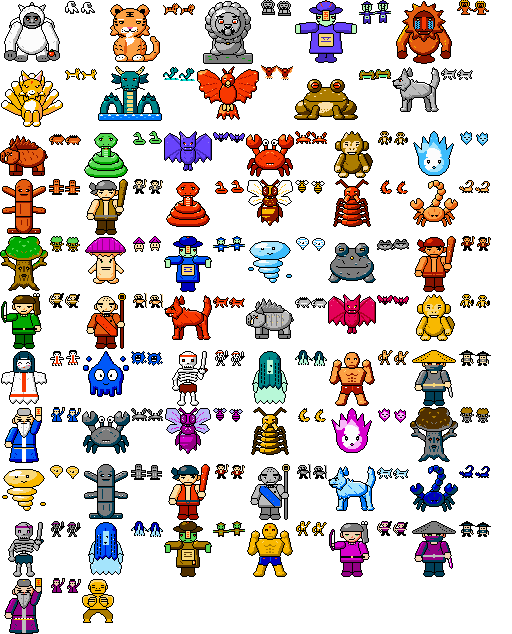
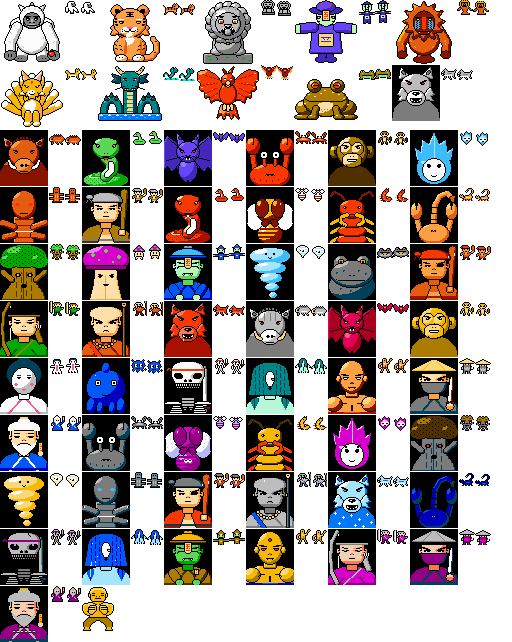
Foes as Hegemon style busts in battle, new thumb

diff --git a/js/enemy_art.js b/js/enemy_art.js
@@ -10,57 +10,57 @@ export const ENEMY_ART = {
   bx_jiao: { x: 98, y: 65, w: 64, h: 56, f: [163, 65, 16, 16] },
   bx_crow: { x: 196, y: 65, w: 64, h: 56, f: [261, 65, 16, 16] },
   bx_toad: { x: 294, y: 65, w: 64, h: 56, f: [359, 65, 16, 16] },
-  e_greywolf: { x: 392, y: 65, w: 48, h: 48, f: [441, 65, 16, 16] },
-  e_wildboar: { x: 0, y: 130, w: 48, h: 48, f: [49, 130, 16, 16] },
-  e_bambooviper: { x: 82, y: 130, w: 48, h: 48, f: [131, 130, 16, 16] },
-  e_cavebat: { x: 164, y: 130, w: 48, h: 48, f: [213, 130, 16, 16] },
-  e_rivercrab: { x: 246, y: 130, w: 48, h: 48, f: [295, 130, 16, 16] },
-  e_mountainmonkey: { x: 328, y: 130, w: 48, h: 48, f: [377, 130, 16, 16] },
-  e_wisp: { x: 410, y: 130, w: 48, h: 48, f: [459, 130, 16, 16] },
-  e_dummy: { x: 0, y: 179, w: 48, h: 56, f: [49, 179, 16, 16] },
-  e_lackey: { x: 82, y: 179, w: 48, h: 56, f: [131, 179, 16, 16] },
-  e_redsnake: { x: 164, y: 179, w: 48, h: 48, f: [213, 179, 16, 16] },
-  e_tigerhornet: { x: 246, y: 179, w: 48, h: 48, f: [295, 179, 16, 16] },
-  e_centipede: { x: 328, y: 179, w: 48, h: 48, f: [377, 179, 16, 16] },
-  e_sandscorpion: { x: 410, y: 179, w: 48, h: 48, f: [459, 179, 16, 16] },
-  e_treesprite: { x: 0, y: 236, w: 48, h: 56, f: [49, 236, 16, 16] },
-  e_toadstool: { x: 82, y: 236, w: 48, h: 48, f: [131, 236, 16, 16] },
-  e_littlejiangshi: { x: 164, y: 236, w: 48, h: 56, f: [213, 236, 16, 16] },
-  e_windsprite: { x: 246, y: 236, w: 48, h: 48, f: [295, 236, 16, 16] },
-  e_stonetoad: { x: 328, y: 236, w: 48, h: 48, f: [377, 236, 16, 16] },
-  e_cudgeler: { x: 410, y: 236, w: 48, h: 56, f: [459, 236, 16, 16] },
-  e_archer: { x: 0, y: 293, w: 48, h: 56, f: [49, 293, 16, 16] },
-  e_roguemonk: { x: 82, y: 293, w: 48, h: 56, f: [131, 293, 16, 16] },
-  e_bloodwolf: { x: 164, y: 293, w: 48, h: 48, f: [213, 293, 16, 16] },
-  e_ironboar: { x: 246, y: 293, w: 48, h: 48, f: [295, 293, 16, 16] },
-  e_bloodbat: { x: 328, y: 293, w: 48, h: 48, f: [377, 293, 16, 16] },
-  e_goldmonkey: { x: 410, y: 293, w: 48, h: 48, f: [459, 293, 16, 16] },
-  e_papereffigy: { x: 0, y: 350, w: 48, h: 56, f: [49, 350, 16, 16] },
-  e_inkspirit: { x: 82, y: 350, w: 48, h: 48, f: [131, 350, 16, 16] },
-  e_skeleton: { x: 164, y: 350, w: 48, h: 56, f: [213, 350, 16, 16] },
-  e_drowned: { x: 246, y: 350, w: 48, h: 56, f: [295, 350, 16, 16] },
-  e_bronzeman: { x: 328, y: 350, w: 48, h: 56, f: [377, 350, 16, 16] },
-  e_assassin: { x: 410, y: 350, w: 48, h: 56, f: [459, 350, 16, 16] },
-  e_daoist: { x: 0, y: 407, w: 48, h: 56, f: [49, 407, 16, 16] },
-  e_ironcrab: { x: 82, y: 407, w: 48, h: 48, f: [131, 407, 16, 16] },
-  e_ghosthornet: { x: 164, y: 407, w: 48, h: 48, f: [213, 407, 16, 16] },
-  e_goldcentipede: { x: 246, y: 407, w: 48, h: 48, f: [295, 407, 16, 16] },
-  e_netherflame: { x: 328, y: 407, w: 48, h: 48, f: [377, 407, 16, 16] },
-  e_deadwood: { x: 410, y: 407, w: 48, h: 56, f: [459, 407, 16, 16] },
-  e_thundersprite: { x: 0, y: 464, w: 48, h: 48, f: [49, 464, 16, 16] },
-  e_irondummy: { x: 82, y: 464, w: 48, h: 56, f: [131, 464, 16, 16] },
-  e_bloodthug: { x: 164, y: 464, w: 48, h: 56, f: [213, 464, 16, 16] },
-  e_ironmonk: { x: 246, y: 464, w: 48, h: 56, f: [295, 464, 16, 16] },
-  e_frostwolf: { x: 328, y: 464, w: 48, h: 48, f: [377, 464, 16, 16] },
-  e_inkscorpion: { x: 410, y: 464, w: 48, h: 48, f: [459, 464, 16, 16] },
-  e_blackbone: { x: 0, y: 521, w: 48, h: 56, f: [49, 521, 16, 16] },
-  e_coldpool: { x: 82, y: 521, w: 48, h: 56, f: [131, 521, 16, 16] },
-  e_bronzejiangshi: { x: 164, y: 521, w: 48, h: 56, f: [213, 521, 16, 16] },
-  e_vajraguardian: { x: 246, y: 521, w: 48, h: 56, f: [295, 521, 16, 16] },
-  e_netherarcher: { x: 328, y: 521, w: 48, h: 56, f: [377, 521, 16, 16] },
-  e_netherassassin: { x: 410, y: 521, w: 48, h: 56, f: [459, 521, 16, 16] },
-  e_blackdaoist: { x: 0, y: 578, w: 48, h: 56, f: [49, 578, 16, 16] },
-  b_luohan: { x: 82, y: 578, w: 32, h: 48 },
+  e_greywolf: { x: 392, y: 65, w: 48, h: 56, f: [441, 65, 16, 16] },
+  e_wildboar: { x: 0, y: 130, w: 48, h: 56, f: [49, 130, 16, 16] },
+  e_bambooviper: { x: 82, y: 130, w: 48, h: 56, f: [131, 130, 16, 16] },
+  e_cavebat: { x: 164, y: 130, w: 48, h: 56, f: [213, 130, 16, 16] },
+  e_rivercrab: { x: 246, y: 130, w: 48, h: 56, f: [295, 130, 16, 16] },
+  e_mountainmonkey: { x: 328, y: 130, w: 48, h: 56, f: [377, 130, 16, 16] },
+  e_wisp: { x: 410, y: 130, w: 48, h: 56, f: [459, 130, 16, 16] },
+  e_dummy: { x: 0, y: 187, w: 48, h: 56, f: [49, 187, 16, 16] },
+  e_lackey: { x: 82, y: 187, w: 48, h: 56, f: [131, 187, 16, 16] },
+  e_redsnake: { x: 164, y: 187, w: 48, h: 56, f: [213, 187, 16, 16] },
+  e_tigerhornet: { x: 246, y: 187, w: 48, h: 56, f: [295, 187, 16, 16] },
+  e_centipede: { x: 328, y: 187, w: 48, h: 56, f: [377, 187, 16, 16] },
+  e_sandscorpion: { x: 410, y: 187, w: 48, h: 56, f: [459, 187, 16, 16] },
+  e_treesprite: { x: 0, y: 244, w: 48, h: 56, f: [49, 244, 16, 16] },
+  e_toadstool: { x: 82, y: 244, w: 48, h: 56, f: [131, 244, 16, 16] },
+  e_littlejiangshi: { x: 164, y: 244, w: 48, h: 56, f: [213, 244, 16, 16] },
+  e_windsprite: { x: 246, y: 244, w: 48, h: 56, f: [295, 244, 16, 16] },
+  e_stonetoad: { x: 328, y: 244, w: 48, h: 56, f: [377, 244, 16, 16] },
+  e_cudgeler: { x: 410, y: 244, w: 48, h: 56, f: [459, 244, 16, 16] },
+  e_archer: { x: 0, y: 301, w: 48, h: 56, f: [49, 301, 16, 16] },
+  e_roguemonk: { x: 82, y: 301, w: 48, h: 56, f: [131, 301, 16, 16] },
+  e_bloodwolf: { x: 164, y: 301, w: 48, h: 56, f: [213, 301, 16, 16] },
+  e_ironboar: { x: 246, y: 301, w: 48, h: 56, f: [295, 301, 16, 16] },
+  e_bloodbat: { x: 328, y: 301, w: 48, h: 56, f: [377, 301, 16, 16] },
+  e_goldmonkey: { x: 410, y: 301, w: 48, h: 56, f: [459, 301, 16, 16] },
+  e_papereffigy: { x: 0, y: 358, w: 48, h: 56, f: [49, 358, 16, 16] },
+  e_inkspirit: { x: 82, y: 358, w: 48, h: 56, f: [131, 358, 16, 16] },
+  e_skeleton: { x: 164, y: 358, w: 48, h: 56, f: [213, 358, 16, 16] },
+  e_drowned: { x: 246, y: 358, w: 48, h: 56, f: [295, 358, 16, 16] },
+  e_bronzeman: { x: 328, y: 358, w: 48, h: 56, f: [377, 358, 16, 16] },
+  e_assassin: { x: 410, y: 358, w: 48, h: 56, f: [459, 358, 16, 16] },
+  e_daoist: { x: 0, y: 415, w: 48, h: 56, f: [49, 415, 16, 16] },
+  e_ironcrab: { x: 82, y: 415, w: 48, h: 56, f: [131, 415, 16, 16] },
+  e_ghosthornet: { x: 164, y: 415, w: 48, h: 56, f: [213, 415, 16, 16] },
+  e_goldcentipede: { x: 246, y: 415, w: 48, h: 56, f: [295, 415, 16, 16] },
+  e_netherflame: { x: 328, y: 415, w: 48, h: 56, f: [377, 415, 16, 16] },
+  e_deadwood: { x: 410, y: 415, w: 48, h: 56, f: [459, 415, 16, 16] },
+  e_thundersprite: { x: 0, y: 472, w: 48, h: 56, f: [49, 472, 16, 16] },
+  e_irondummy: { x: 82, y: 472, w: 48, h: 56, f: [131, 472, 16, 16] },
+  e_bloodthug: { x: 164, y: 472, w: 48, h: 56, f: [213, 472, 16, 16] },
+  e_ironmonk: { x: 246, y: 472, w: 48, h: 56, f: [295, 472, 16, 16] },
+  e_frostwolf: { x: 328, y: 472, w: 48, h: 56, f: [377, 472, 16, 16] },
+  e_inkscorpion: { x: 410, y: 472, w: 48, h: 56, f: [459, 472, 16, 16] },
+  e_blackbone: { x: 0, y: 529, w: 48, h: 56, f: [49, 529, 16, 16] },
+  e_coldpool: { x: 82, y: 529, w: 48, h: 56, f: [131, 529, 16, 16] },
+  e_bronzejiangshi: { x: 164, y: 529, w: 48, h: 56, f: [213, 529, 16, 16] },
+  e_vajraguardian: { x: 246, y: 529, w: 48, h: 56, f: [295, 529, 16, 16] },
+  e_netherarcher: { x: 328, y: 529, w: 48, h: 56, f: [377, 529, 16, 16] },
+  e_netherassassin: { x: 410, y: 529, w: 48, h: 56, f: [459, 529, 16, 16] },
+  e_blackdaoist: { x: 0, y: 586, w: 48, h: 56, f: [49, 586, 16, 16] },
+  b_luohan: { x: 82, y: 586, w: 32, h: 48 },
 };
 // names, bios and habitats from C:\CharacterGallery\chars\index.json (shown in the bestiary)
 export const ENEMY_INFO = {

diff --git a/js/main.js b/js/main.js
@@ -1,12 +1,12 @@
 // Boot: build the view, the title screen, the opening, and run the fixed-timestep loop.
-import { View, pickQuality, loadImage, registerSheet } from './view.js?v=6';
-import { Input } from './input.js?v=6';
-import { UI, t, STR, getLang, setLang } from './ui.js?v=6';
-import { Audio } from './audio.js?v=6';
-import { Game, mapName } from './game.js?v=6';
-import { CAST, PEOPLE_IMAGE } from './people_art.js?v=6';
-import { preloadBattleArt } from './battle.js?v=6';
-import { PLACE_AT } from './world_map.js?v=6';
+import { View, pickQuality, loadImage, registerSheet } from './view.js?v=7';
+import { Input } from './input.js?v=7';
+import { UI, t, STR, getLang, setLang } from './ui.js?v=7';
+import { Audio } from './audio.js?v=7';
+import { Game, mapName } from './game.js?v=7';
+import { CAST, PEOPLE_IMAGE } from './people_art.js?v=7';
+import { preloadBattleArt } from './battle.js?v=7';
+import { PLACE_AT } from './world_map.js?v=7';
 
 const params = new URLSearchParams(location.search);
 const NORENDER = params.has('norender');
@@ -51,7 +51,7 @@ input.push((k) => {
 });
 
 async function loadArt() {
-  const jobs = [loadImage(PEOPLE_IMAGE).then((i) => registerSheet('npcs', i)), loadImage('assets/enemies.png?v=6').then((i) => registerSheet('enemies', i))];
+  const jobs = [loadImage(PEOPLE_IMAGE).then((i) => registerSheet('npcs', i)), loadImage('assets/enemies.png?v=7').then((i) => registerSheet('enemies', i))];
   for (const [id, c] of Object.entries(CAST)) jobs.push(loadImage(c.sheet).then((i) => registerSheet('cast_' + id, i)));
   await Promise.all(jobs); preloadBattleArt();
 }
@@ -79,7 +79,7 @@ function titlePan(dt) { panT += dt; view.frame(dt, { x: 26 + Math.sin(panT * 0.0
 // ---------------------------------------------------------------- title
 async function title() {
   G.mode = 'title';
-  if (view) { const pl = {}; const { PLACES } = await import('./maps.js?v=6'); for (const [k, [x, y]] of Object.entries(PLACE_AT)) pl[k] = [x, y, PLACES[k].look]; const { WORLD } = await import('./world_map.js?v=6'); view.buildWorld(WORLD, pl, {}); view.camReady = false; }
+  if (view) { const pl = {}; const { PLACES } = await import('./maps.js?v=7'); for (const [k, [x, y]] of Object.entries(PLACE_AT)) pl[k] = [x, y, PLACES[k].look]; const { WORLD } = await import('./world_map.js?v=7'); view.buildWorld(WORLD, pl, {}); view.camReady = false; }
   const tl = document.getElementById('title'); tl.classList.remove('hidden');
   audio.play('title');
   for (;;) {

diff --git a/js/battle.js b/js/battle.js
@@ -1,16 +1,16 @@
 // Front-view one-on-one battles in pure 8-bit style. Rounds: the hero picks a command, then hero and foe act in
 // order of agility (with a little luck). Everything the foe does goes through the same rules as the hero.
-import { ENEMIES, SKILLS, ITEMS, ART_OF } from './data.js?v=6';
-import { ENEMY_ART } from './enemy_art.js?v=6';
-import { CAST } from './people_art.js?v=6';
-import * as R from './rules.js?v=6';
-import { t, STR } from './ui.js?v=6';
-import { hex } from './tiles.js?v=6';
+import { ENEMIES, SKILLS, ITEMS, ART_OF } from './data.js?v=7';
+import { ENEMY_ART } from './enemy_art.js?v=7';
+import { CAST } from './people_art.js?v=7';
+import * as R from './rules.js?v=7';
+import { t, STR } from './ui.js?v=7';
+import { hex } from './tiles.js?v=7';
 
 const sleep = (ms) => new Promise((r) => setTimeout(r, ms));
 const imgs = {};
 function img(src) { if (!imgs[src]) { imgs[src] = new Image(); imgs[src].src = src; } return imgs[src]; }
-export function preloadBattleArt() { img('assets/enemies.png?v=6'); for (const c of Object.values(CAST)) img(c.portrait); }
+export function preloadBattleArt() { img('assets/enemies.png?v=7'); for (const c of Object.values(CAST)) img(c.portrait); }
 
 const SCENES = {   // backdrop strip colours (NES indexes): sky, far, near
   grass: [0x21, 0x1A, 0x0A], forest: [0x0A, 0x0B, 0x1A], hill: [0x21, 0x19, 0x09], sand: [0x31, 0x27, 0x17], swamp: [0x0C, 0x0B, 0x04],
@@ -40,7 +40,7 @@ export async function battle(G, foeId, opts = {}) {
   const scene = SCENES[opts.scene] || SCENES.grass;
   let art = null, src = null;
   if (E.por) { src = img(CAST[E.por].portrait); art = { x: 0, y: 0, w: 48, h: 56, por: 1 }; }
-  else { src = img('assets/enemies.png?v=6'); art = ENEMY_ART[ART_OF(foeId)]; }
+  else { src = img('assets/enemies.png?v=7'); art = ENEMY_ART[ART_OF(foeId)]; }
   // whole device pixels per art pixel (k/3 on the 160x120 stage); bigger pictures step down so they always fit
   const k = art.por ? 6 : Math.max(3, Math.min(E.big ? 7 : 6, Math.floor(348 / art.h), Math.floor(468 / art.w)));
   const scale = k / 3;

diff --git a/js/game.js b/js/game.js
@@ -1,13 +1,13 @@
 // The game: where the hero is, walking on tile maps, people and their scripts, chests, doors, encounters, menus,
 // inns, shops, saving and the story's turning points. The view only draws what this holds.
-import { MAPS, PLACES, TILES, L } from './maps.js?v=6';
-import { WORLD, WORLD_W, WORLD_H, PLACE_AT } from './world_map.js?v=6';
-import { ITEMS, SKILLS, SHOPS, ENEMIES, ZONES, zoneAt, ENCOUNTER, RARE, RARE_CHANCE, MONEY_FOE, ART_OF } from './data.js?v=6';
-import { PEOPLE, CAST } from './people_art.js?v=6';
-import { ENEMY_ART, ENEMY_INFO } from './enemy_art.js?v=6';
-import * as R from './rules.js?v=6';
-import { battle } from './battle.js?v=6';
-import { t, STR, getLang, setLang, nameOf } from './ui.js?v=6';
+import { MAPS, PLACES, TILES, L } from './maps.js?v=7';
+import { WORLD, WORLD_W, WORLD_H, PLACE_AT } from './world_map.js?v=7';
+import { ITEMS, SKILLS, SHOPS, ENEMIES, ZONES, zoneAt, ENCOUNTER, RARE, RARE_CHANCE, MONEY_FOE, ART_OF } from './data.js?v=7';
+import { PEOPLE, CAST } from './people_art.js?v=7';
+import { ENEMY_ART, ENEMY_INFO } from './enemy_art.js?v=7';
+import * as R from './rules.js?v=7';
+import { battle } from './battle.js?v=7';
+import { t, STR, getLang, setLang, nameOf } from './ui.js?v=7';
 
 const DIRS = { up: [0, -1], down: [0, 1], left: [-1, 0], right: [1, 0] };
 const SAVE_KEYS = ['lq_slot1', 'lq_slot2', 'lq_slot3'];

diff --git a/style.css b/style.css
@@ -56,7 +56,7 @@ body { font-family: 'Cubic11', 'PingFang TC', 'Microsoft JhengHei', monospace; f
 .bookwin { left: 4%; top: 5%; bottom: 3%; width: 50%; z-index: 9; display: flex; flex-direction: column; gap: 0.4em; overflow: hidden; }
 .bkpic { flex: none; height: calc(64px * var(--pz)); display: flex; align-items: flex-end; justify-content: center; }
 .bkpic img { width: calc(48px * var(--pz)); height: calc(56px * var(--pz)); image-rendering: pixelated; }
-.bkspr { flex: none; background-image: url(assets/enemies.png?v=6); image-rendering: pixelated; transform: scale(var(--pz)); transform-origin: 50% 100%; }
+.bkspr { flex: none; background-image: url(assets/enemies.png?v=7); image-rendering: pixelated; transform: scale(var(--pz)); transform-origin: 50% 100%; }
 .bkname { color: var(--gold); }
 .bkmeta { color: #bcbcbc; font-size: 0.85em; }
 .bkbio { margin: 0.2em 0; font-size: 0.9em; }

diff --git a/js/view.js b/js/view.js
@@ -6,8 +6,8 @@ import { RenderPass } from '../lib/addons/RenderPass.js';
 import { UnrealBloomPass } from '../lib/addons/UnrealBloomPass.js';
 import { OutputPass } from '../lib/addons/OutputPass.js';
 import { ShaderPass } from '../lib/addons/ShaderPass.js';
-import { tex, spr } from './tiles.js?v=6';
-import { TILES } from './maps.js?v=6';
+import { tex, spr } from './tiles.js?v=7';
+import { TILES } from './maps.js?v=7';
 
 const TiltShift = {
   uniforms: { tDiffuse: { value: null }, res: { value: new THREE.Vector2(1, 1) }, dir: { value: new THREE.Vector2(1, 0) }, focus: { value: 0.5 }, band: { value: 0.18 }, amount: { value: 2.2 } },

diff --git a/index.html b/index.html
@@ -12,7 +12,7 @@
 <link rel="apple-touch-icon" href="apple-touch-icon.png">
 <link rel="icon" href="icon-192.png">
 <link rel="manifest" href="manifest.webmanifest">
-<link rel="stylesheet" href="style.css?v=6">
+<link rel="stylesheet" href="style.css?v=7">
 <script type="importmap">{ "imports": { "three": "./lib/three.module.min.js" } }</script>
 </head>
 <body>
@@ -32,6 +32,6 @@
   <div id="btns" class="padpart"><div id="btnB">B</div><div id="btnA">A</div></div>
 </div>
 <div id="pad" hidden></div>
-<script type="module" src="js/main.js?v=6"></script>
+<script type="module" src="js/main.js?v=7"></script>
 </body>
 </html>

diff --git a/js/ui.js b/js/ui.js
@@ -1,6 +1,6 @@
 // 8-bit windows: black boxes with white rounded borders and the Cubic 11 pixel font. Messages type out, menus
 // move a ▶ cursor. Every prompt returns a promise. A test driver (UI.driver) may answer prompts instead of a person.
-import { CAST } from './people_art.js?v=6';
+import { CAST } from './people_art.js?v=7';
 
 export const STR = {
   attack: ['攻擊', 'Attack'], skill: ['武功', 'Arts'], item: ['道具', 'Items'], run: ['逃走', 'Run'],

diff --git a/js/rules.js b/js/rules.js
@@ -1,5 +1,5 @@
 // The one set of rules the hero and every enemy share: stats, damage, skills, items, levels.
-import { LEVELS, MAX_LV, XP_FOR, SKILLS, LEARN_ORDER, ITEMS, BAG_MAX } from './data.js?v=6';
+import { LEVELS, MAX_LV, XP_FOR, SKILLS, LEARN_ORDER, ITEMS, BAG_MAX } from './data.js?v=7';
 
 export const rand = (a, b) => a + Math.floor(Math.random() * (b - a + 1));
 

diff --git a/README.md b/README.md
@@ -47,7 +47,7 @@ Characters:
   - homeward and slip away (leave a dungeon)
   - ward (keeps weak monsters away)
   - Diamond Body (from the mentor)
-- There are 50 regular enemies in five tiers (the Character Gallery's common foes), a rare stone toad full of silver, and 9 bosses.
+- There are 50 regular enemies in five tiers (the Character Gallery's common foes), a rare stone toad full of silver, and 9 bosses. Their battle pictures are the gallery's 48x56 bust portraits in the 霸王之路 style (black NES panel, like the people bosses).
 - Big beasts from the gallery: the nine-tailed fox is the Moonwater Siren's true form and the talisman jiangshi is the Jiangshi General. The tiger, the shanxiao, the fire crow and the venom toad sometimes appear in the wild instead of a common foe. The white ape (Hidden Blade Grotto), the river jiao (Moonwater Cave) and the stone lion (fourth floor of the tower) guard rewards as optional fights.
 - 圖鑑 (Bestiary) in the field menu lists every foe met, with its picture, home and story.
 - Bosses follow the same rules as the hero. They are tough only through their stats, the arts any fighter can use, carried wound salves and a smarter AI. Enemies do not scale to your level.
